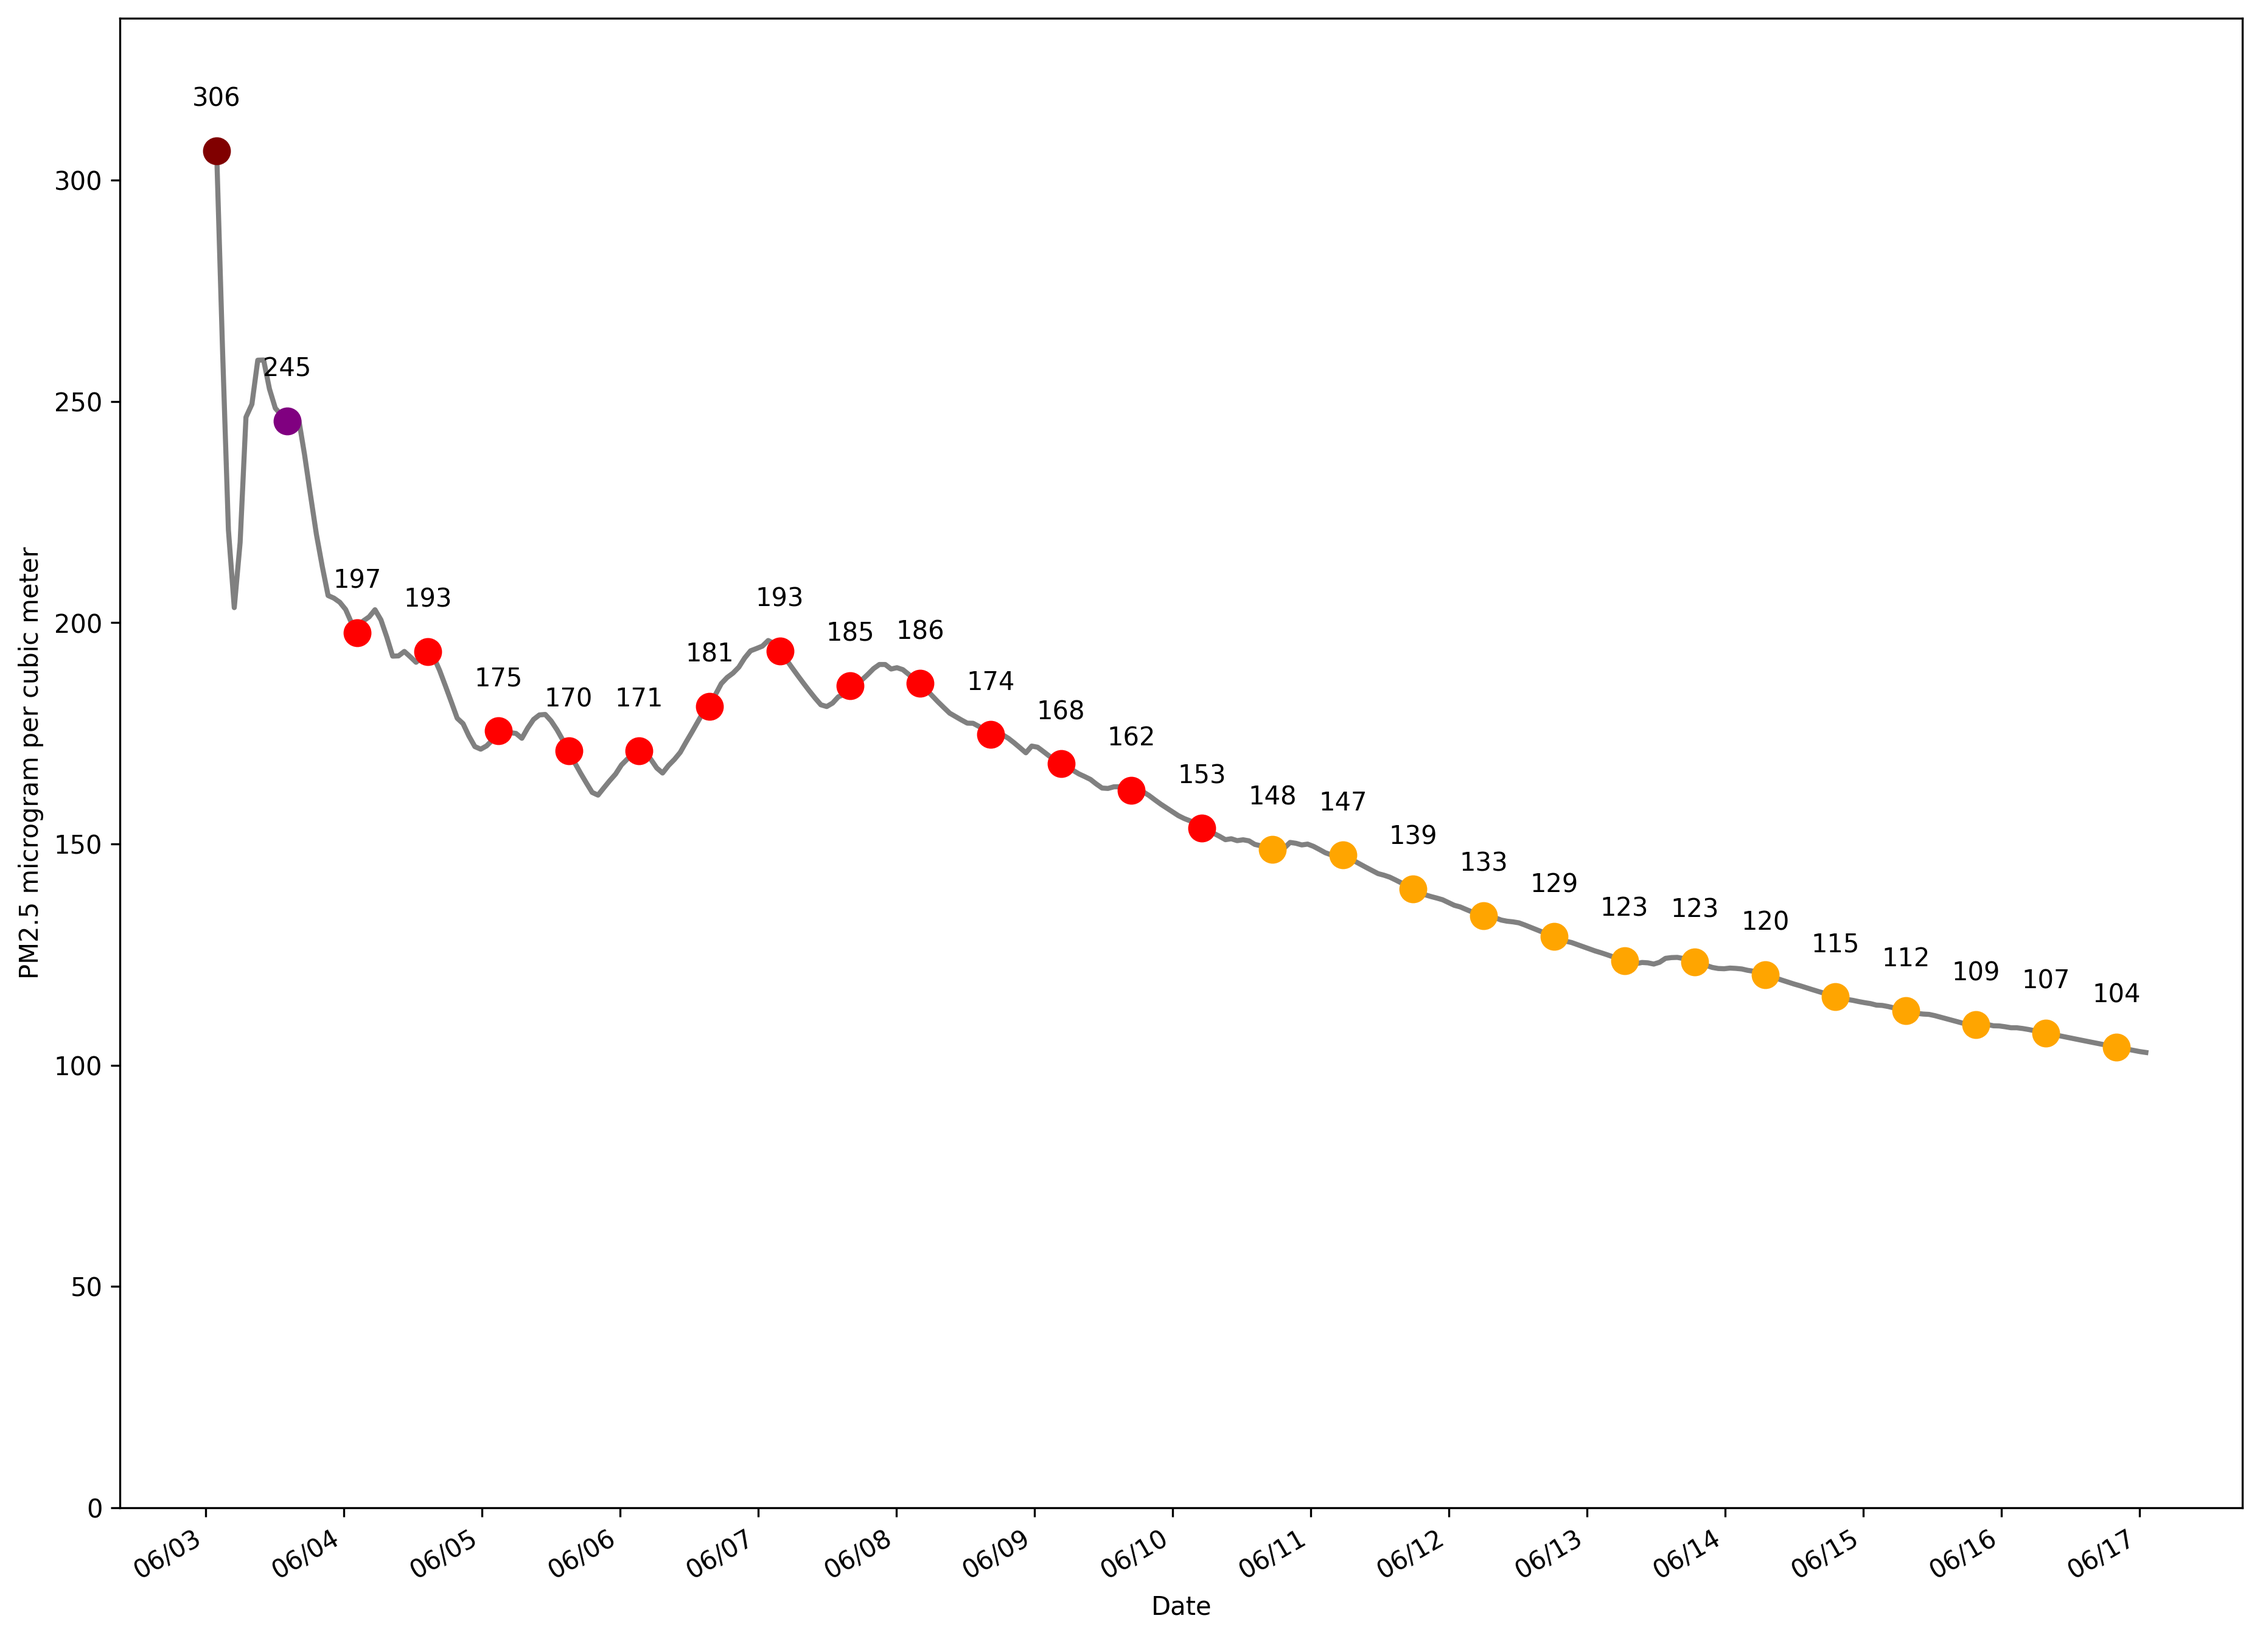
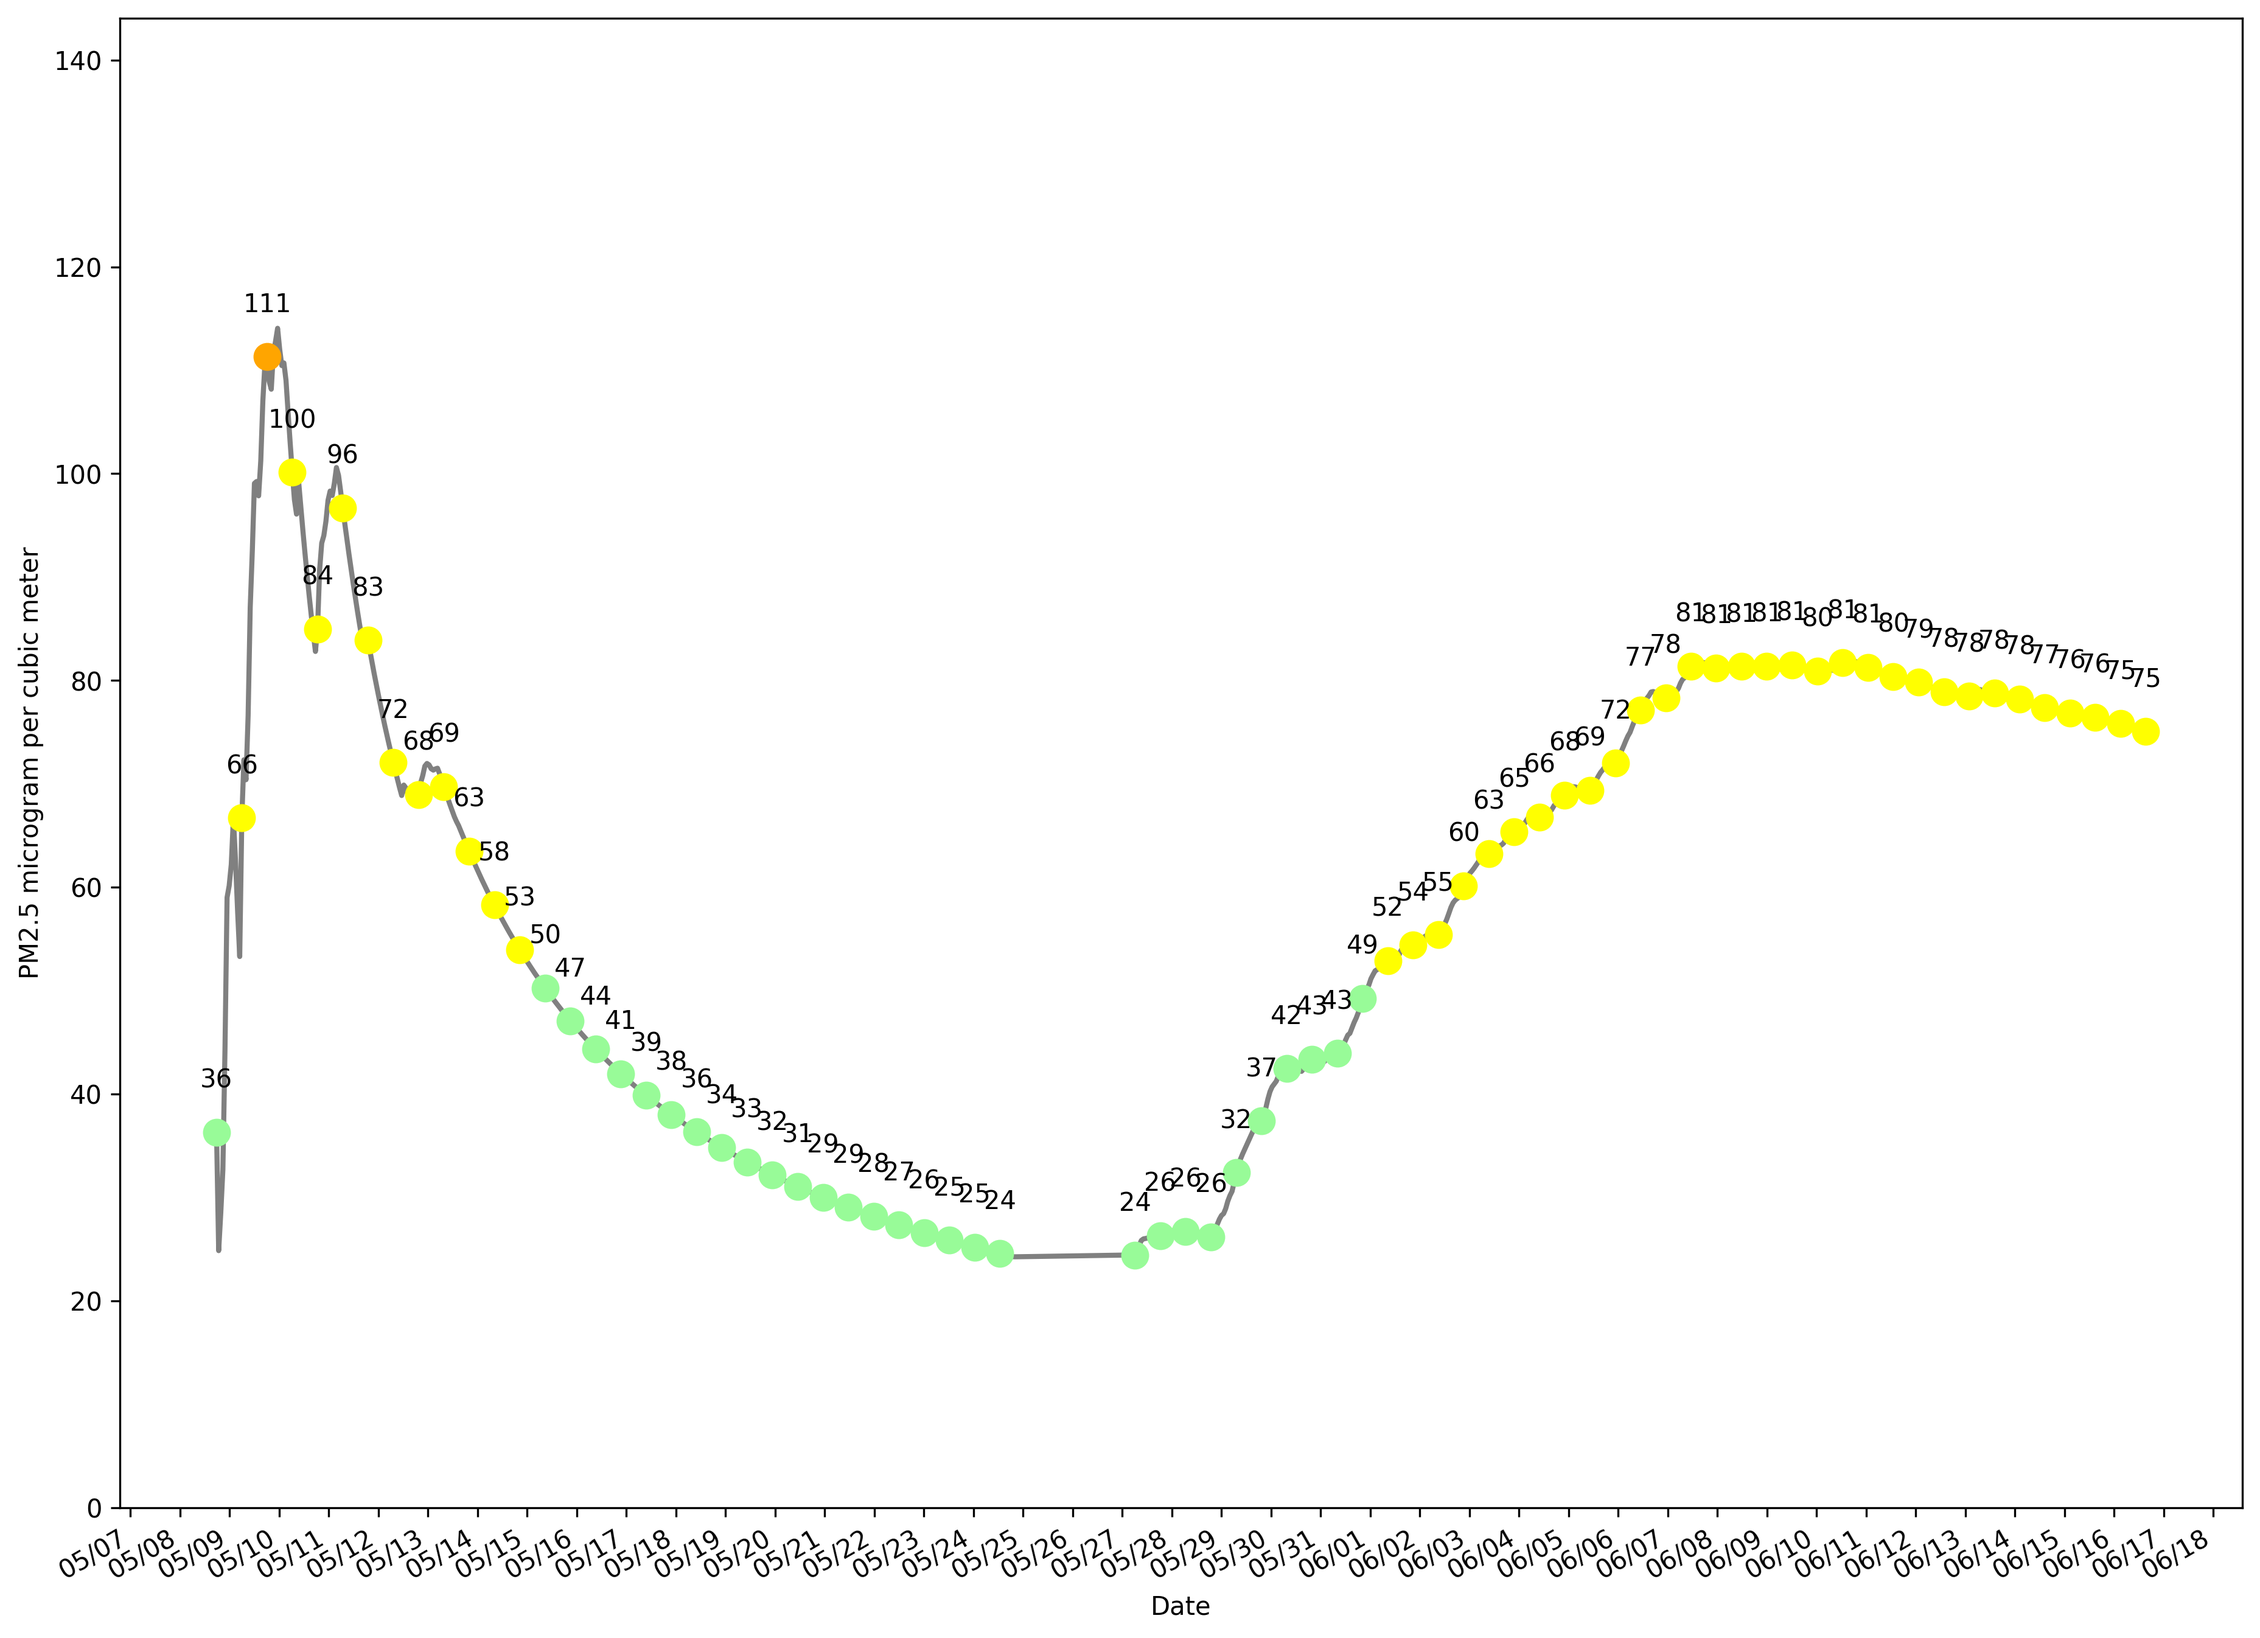
gui customizable update

diff --git a/src/gui.py b/src/gui.py
@@ -6,28 +6,75 @@ import tkinterDnD  # Importing the tkinterDnD module
 import os.path
 import unzip
 import cleanup
+import traceback
+
+# --- Logging code ---
+import sys
+import datetime
+
+class Logger(object):
+	def __init__(self):
+		self.terminal = sys.stdout
+		self.log = open("log.txt", "a")
+
+	def write(self, message):
+		now = datetime.datetime.now()
+		timedMessage = str(now) + " : " + message
+		if (message != '\n'):
+			self.log.write(timedMessage + '\n')  
+		self.terminal.write(message)
+
+stdOut = sys.stdout
+sys.stdout = Logger()
+# --- End Logging code ---
+
 
 # You have to use the tkinterDnD.Tk object for super easy initialization,
 # and to be able to use the main window as a dnd widget
 root = tkinterDnD.Tk()
 root.title("AirCast Export Utility - Mukul Ramesh")
-root.geometry('500x300')
+root.geometry('600x600')
 
+label = ttk.Label(root, text='Drag and drop the exported zip files into the box below!')
+label.pack(ipadx=10, ipady=10)
 
-stringvar = tk.StringVar()
-stringvar.set('')
+periodLabel = ttk.Label(root, text='Period Length \n(How far back should the graph go?) \nIf this value reaches earlier than the first entry, then the entire data set will be graphed.')
+periodLabel.pack(ipadx=10, ipady=10)
+
+periodLengthOptions = ["24 Hours", "1 Week", "2 Weeks", "3 Weeks", "30 Days", "60 Days", "90 Days"]
+periodLengthText = tk.StringVar(root); periodLengthText.set(periodLengthOptions[2])
+periodLengthDropDown = tk.OptionMenu(root, periodLengthText, *periodLengthOptions).pack()
+
+averageLabel = ttk.Label(root, text='Averaging Length \n(What size block of time should I average?)')
+averageLabel.pack(ipadx=10, ipady=10)
+
+averageLengthOptions = ["15 Minutes", "30 Minutes", "1 Hour", "2 Hours", "6 Hours", "8 Hours","12 Hours", "24 Hours"]
+averageLengthText = tk.StringVar(root); averageLengthText.set(averageLengthOptions[2])
+averageLengthDropDown = tk.OptionMenu(root, averageLengthText, *averageLengthOptions).pack()
+
+intervalLabel = ttk.Label(root, text='Tick Interval Length \n(How often should I place one tick on the x-axis?)')
+intervalLabel.pack(ipadx=10, ipady=10)
+
+intervalLengthOptions = ["1 Hour","6 Hours","12 Hours","1 Day", "7 Days", "14 Days"]
+intervalLengthText = tk.StringVar(root); intervalLengthText.set(intervalLengthOptions[3])
+intervalLengthDropDown = tk.OptionMenu(root, intervalLengthText, *intervalLengthOptions).pack()
+
+dotIntervalLabel = ttk.Label(root, text='Dot Interval Length \n(How often should I place a dot?)')
+dotIntervalLabel.pack(ipadx=10, ipady=10)
+
+dotIntervalLengthOptions = ["1 Hour","6 Hours","12 Hours","1 Day", "7 Days", "14 Days"]
+dotIntervalLengthText = tk.StringVar(root); dotIntervalLengthText.set(dotIntervalLengthOptions[2])
+dotIntervalLengthDropDown = tk.OptionMenu(root, dotIntervalLengthText, *dotIntervalLengthOptions).pack()
 
 fullFilePaths = []
 
 def updateLabelText(text):
-    stringvar.set(text + "\n" + stringvar.get())
+    boxText.set(text + "\n" + boxText.get())
     root.update_idletasks()
 
 def clearLabelText():
-    stringvar.set('')
+    boxText.set('')
     root.update_idletasks()
-
-
 
 def drop(event):
     # This function is called, when stuff is dropped into a widget
@@ -56,30 +103,41 @@ def runUtility():
     else:
         clearLabelText()
         updateLabelText("Working...")
-        
+
+        periodLengthStr = periodLengthText.get()
+        averageLengthStr = averageLengthText.get()
+        intervalLengthStr = intervalLengthText.get()
+        dotIntervalLengthStr = dotIntervalLengthText.get()
+        updateLabelText("Grabbed configured options...")
+    
         try:
             unzip.unzipList(fullFilePaths)
             updateLabelText("Unzipped files...")
-            cleanup.makeCleanGraph()
+            cleanup.makeCleanGraph(periodLengthStr, averageLengthStr, intervalLengthStr, dotIntervalLengthStr)
             updateLabelText("Generated graphs...")
             unzip.deleteTempFiles()
             updateLabelText("Deleted temporary files...")
             os.startfile(os.path.realpath("./output/"))
             updateLabelText("Opening output folder...")
             root.destroy()
-        except:
-            stringvar.set("An problem occurred. Please see log file for more details.")
+        except Exception as e:
+            print(periodLengthStr, averageLengthStr, intervalLengthStr, dotIntervalLengthStr)
+            boxText.set("An problem occurred. Please quit, and see log file for more details.")
+            traceback.print_exception(e, file=sys.stdout)
 
 
-label = ttk.Label(root, text='Drag and drop the exported zip files into the box below!')
-label.pack(ipadx=10, ipady=10)
+
+
 
 
 # With DnD hook you just pass the command to the proper argument,
 # and tkinterDnD will take care of the rest
 # NOTE: You need a ttk widget to use these arguments
+boxText = tk.StringVar()
+boxText.set('')
+
 label_2 = ttk.Label(root, onfiledrop=drop,
-                    textvar=stringvar, padding=10, relief="solid")
+                    textvar=boxText, padding=10, relief="solid")
 label_2.pack(fill="both", expand=True, padx=10, pady=10)
 
 startButton = ttk.Button(root, text="Start Utility", command=runUtility)
@@ -102,5 +160,5 @@ quitButton.pack(
 
 
 root.mainloop()
-
+sys.stdout = stdOut # Need to set back to avoid error.
 

diff --git a/src/cleanup.py b/src/cleanup.py
@@ -2,18 +2,19 @@ import os, shutil
 from os import listdir
 import csv
 import datetime
+from pytimeparse import parse
 import graphing
 
 DIR = "./temp/"
 
-PERIOD = datetime.timedelta(days=14) # The last x amount of time that I am extracting
+# PERIOD = datetime.timedelta(days=14) # The last x amount of time that I am extracting
 
-TICKER = datetime.timedelta(hours=1) # How the data is delineated: average by x amount of time
+# TICKER = datetime.timedelta(hours=1) # How the data is delineated: average by x amount of time
 
 # Hard coded field names because the CSV file is badly formatted
 fieldNames = ['ObjectID', 'Session_Name', 'Timestamp', 'Latitude', 'Longitude', 'Fahrenheit', 'PM1', 'PM10', 'PM2.5', '3-RH']
 
-def hourlyAverage(fp):
+def hourlyAverage(fp, PERIOD, TICKER):
 	
 	file = csv.DictReader(fp, delimiter=',', quotechar="'", fieldnames=fieldNames)
 	lis = []
@@ -33,12 +34,17 @@ def hourlyAverage(fp):
 
 	curStamp = mostRecentStamp
 	i = -1
-	while curStamp > earliestStamp:
-		periodData.append(lis[i])
-		
-		i = i - 1
-		curStamp = lis[i][0]
 	
+	try:
+		while curStamp > earliestStamp:
+			periodData.append(lis[i])
+			
+			i = i - 1
+			curStamp = lis[i][0]
+	except IndexError:
+		missingDataTime = curStamp - earliestStamp
+		print("WARN: The PERIOD was larger than the dataset by " + str(missingDataTime) + ". Graphing the entire data set instead.")
+
 	periodData.reverse()
 	
 	averagedList = []
@@ -67,21 +73,29 @@ def hourlyAverage(fp):
 	return averagedList
 		
 
-def makeCleanGraph():
+def makeCleanGraph(periodLengthStr, averageLengthStr, intervalLengthStr, dotIntervalLengthStr):
 	entries = listdir(DIR)
-	# print(entries)
+	period = datetime.timedelta(seconds=parse(periodLengthStr))
+	average_block = datetime.timedelta(seconds=parse(averageLengthStr))
+	
+	# These both need to be in a "number of hours" integer
+	interval = int(parse(intervalLengthStr) / 3600)  
+	dotInterval = int(parse(dotIntervalLengthStr) / 3600)
+	
+	
 
 	for entry in entries: # I assume that every zip file has only one point of interest: the .csv
 		if entry.endswith(".csv"):
 			fp = open(DIR + entry, 'r', newline='')
-			
-			for _ in range(9): # Skip the first 9 lines. First 8 describe the measurements, 9th describes the layout (which is hardcoded)
+
+			# Skip the first 9 lines. First 8 describe the measurements, 9th describes the layout (which is hardcoded)
+			for _ in range(9): 
 				next(fp)
 			
 			print("Reformatted " + entry)
-			data = hourlyAverage(fp) # !!! There are 2 entries in testing !!!
+			data = hourlyAverage(fp, period, average_block)
 
-			graphing.graph(entry, data)
+			graphing.graph(entry, data, interval, dotInterval)
 			print("Graphed " + entry)
 			fp.close()
 	

diff --git a/src/graphing.py b/src/graphing.py
@@ -3,6 +3,10 @@ import matplotlib.dates as mdates
 from matplotlib.pyplot import figure
 import itertools
 
+# lengths of time of values below ARE IN HOURS
+# interval = 24
+# dotInterval = 12
+
 def lineGraph(name, data):
 	fig = figure(figsize=(40, 12), dpi=300)
 	ax = plt.gca()
@@ -35,8 +39,7 @@ def lineGraph(name, data):
 	
 	plt.close(fig)
 
-def lineGraphDotted(name, data):
-	INTERVAL = 24
+def lineGraphDotted(name, data, interval, dotInterval):
 	
 	fig = figure(figsize=(15, 12), dpi=300)
 	ax = plt.gca()
@@ -63,7 +66,7 @@ def lineGraphDotted(name, data):
 
 
 	ax.xaxis.set_major_formatter(mdates.DateFormatter('%m/%d'))
-	ax.xaxis.set_major_locator(mdates.HourLocator(interval=INTERVAL))
+	ax.xaxis.set_major_locator(mdates.HourLocator(interval=interval))
 	
 	ax.set_ylabel('PM2.5 microgram per cubic meter')
 	ax.set_xlabel('Date')
@@ -76,7 +79,7 @@ def lineGraphDotted(name, data):
 	i = 0
 	for x1,y1 in zip(x,y):
 		color = next(markerColorIter)
-		if i % int(INTERVAL / 2) == 0:
+		if i % int(dotInterval) == 0:
 			plt.plot(x1,y1, marker='o', markersize=10, markerfacecolor=color, markeredgecolor=color) # plot dots
 			
 			textScale = ((yRange[1] - yRange[0]) / 100) * 3
@@ -89,7 +92,7 @@ def lineGraphDotted(name, data):
 	
 	plt.close(fig)
 
-def graph(name, data):
+def graph(name, data, interval, dotInterval):
 	# lineGraph(name, data)
-	lineGraphDotted(name, data)
+	lineGraphDotted(name, data, interval, dotInterval)
 
